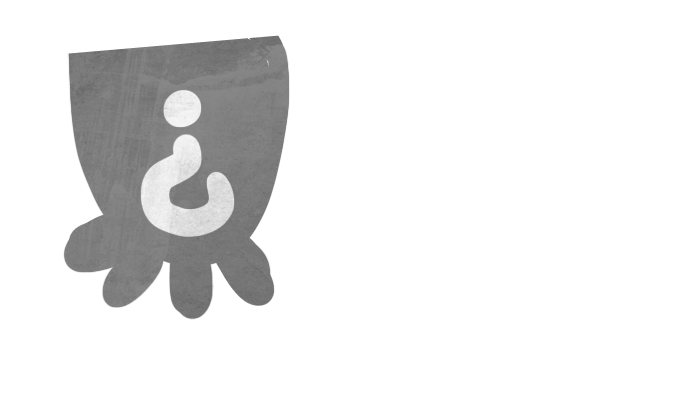
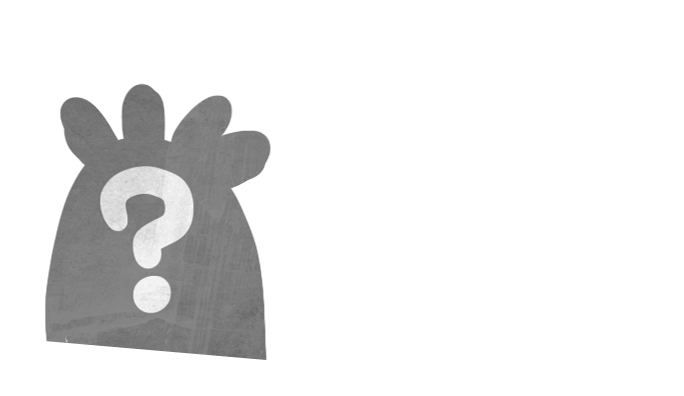
Game Setting Scene Default Character Image 추가

Changed region(s): [[0.0614, 0.0909, 0.4298, 0.9091]]

diff --git a/Classes/SettingOtherPlayerStatusLayer.cpp b/Classes/SettingOtherPlayerStatusLayer.cpp
@@ -161,18 +161,18 @@ void CSettingOtherPlayerStatusLayer::CreateStatusFrame(CCSize m_VisibleSize)
 		{
 		case PLAYER_1_TAG:
 			pDefaultFaceImg = CCSprite::create( PlayerUiCharacterBelow[4].c_str() );
-			pDefaultFaceImg->setPosition( CCPoint(150, 0) );
+			pDefaultFaceImg->setPosition( CCPoint(0, 0) );
 			break;
 		case PLAYER_2_TAG:
-			pDefaultFaceImg = CCSprite::create( PlayerUiCharacterBelow[4].c_str() );
+			pDefaultFaceImg = CCSprite::create( PlayerUiCharacterBelow[5].c_str() );
 			pDefaultFaceImg->setPosition( CCPoint(0, 0) );
 			break;
 		case PLAYER_3_TAG:
 			pDefaultFaceImg = CCSprite::create( PlayerUiCharacterUpper[4].c_str() );
-			pDefaultFaceImg->setPosition( CCPoint(70, 0) );
+			pDefaultFaceImg->setPosition( CCPoint(0, 0) );
 			break;
 		case PLAYER_4_TAG:
-			pDefaultFaceImg = CCSprite::create( PlayerUiCharacterUpper[4].c_str() );
+			pDefaultFaceImg = CCSprite::create( PlayerUiCharacterUpper[5].c_str() );
 			pDefaultFaceImg->setPosition( CCPoint(0, 0) );
 			break;
 		default:
@@ -204,7 +204,7 @@ void CSettingOtherPlayerStatusLayer::CreateStatusFrame(CCSize m_VisibleSize)
 		pEditName->setPosition( ccp(m_PlayerStatusFrame[i]->getContentSize().width - pEditName->getContentSize().width / 2,
 									pEditName->getContentSize().height / 2) );
 		pEditName->setFontColor( ccYELLOW );
-		pEditName->setFont("Helvetica", 30);
+		pEditName->setFont(GAME_FONT, 30);
 		pEditName->setMaxLength( 12 );
 		pEditName->setPlaceholderFontSize( 1 );
 		pEditName->setPlaceHolder( CGameManager::GetInstance()->GetPlayerName(i).c_str() );

diff --git a/Classes/config.h b/Classes/config.h
@@ -460,21 +460,23 @@ const std::string SHARED_BACKGROUND = "image/shared_background.png";
 const std::string SHARED_PLAYERUI_GREY = "image/shared_playerui_background_unselected.png";
 const std::string SHARED_PLAYERUI_BLUE = "image/shared_playerui_background_selected.png";
 
-const std::string PlayerUiCharacterUpper[5] =
+const std::string PlayerUiCharacterUpper[6] =
 {
 	"image/shared_player_character01_01.png",
 	"image/shared_player_character02_01.png",
 	"image/shared_player_character03_01.png",
 	"image/shared_player_character04_01.png",
-	"image/shared_player_empty_01.png"
+	"image/shared_player_empty_03.png",
+	"image/shared_player_empty_04.png"
 };
 
-const std::string PlayerUiCharacterBelow[5] =
+const std::string PlayerUiCharacterBelow[6] =
 {
 	"image/shared_player_character01_02.png",
 	"image/shared_player_character02_02.png",
 	"image/shared_player_character03_02.png",
 	"image/shared_player_character04_02.png",
+	"image/shared_player_empty_01.png",
 	"image/shared_player_empty_02.png"
 };
 
